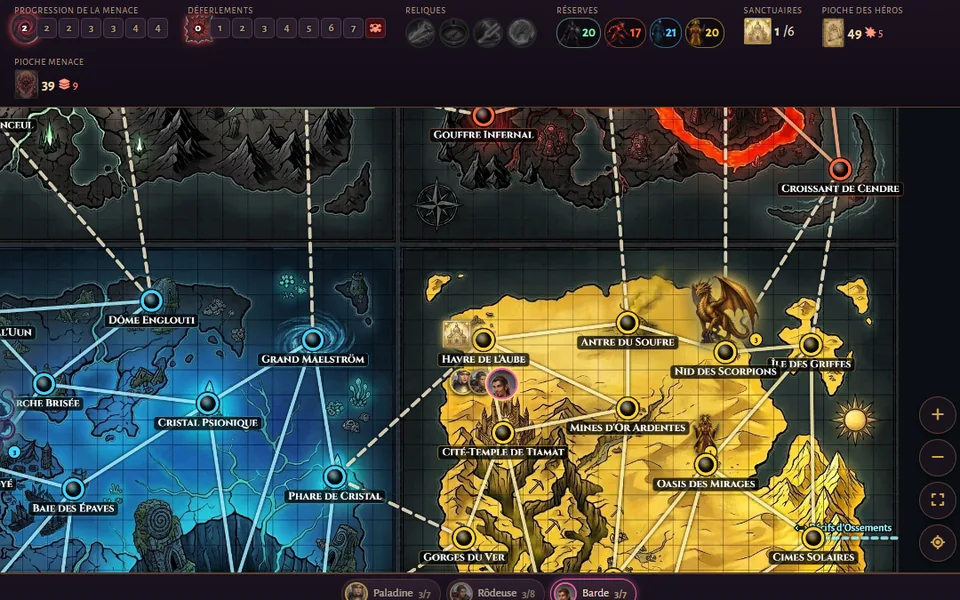
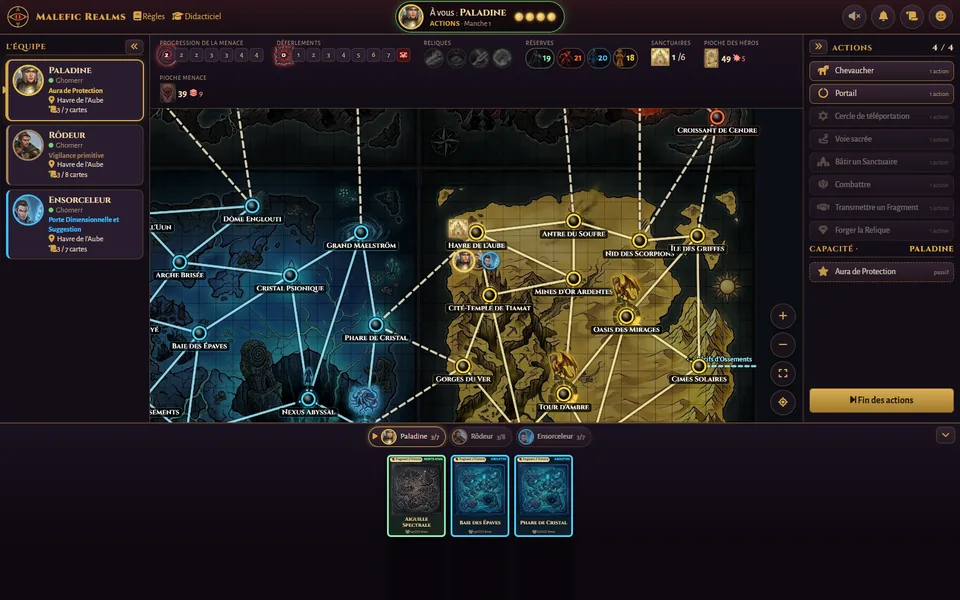
Passe Malefic Realms en terminé et en tête de liste, avec son poster et la nouvelle interface dans le carrousel

diff --git a/assets/js/projects.js b/assets/js/projects.js
@@ -9,6 +9,26 @@
 // downloads : (optionnel) boutons de téléchargement par OS ('windows' | 'macos' | 'linux')
 window.PROJECTS = [
   {
+    id: 'malefic-realms',
+    title: 'Malefic Realms',
+    kind: 'Jeu coopératif multijoueur · Web',
+    status: 'done',
+    images: [
+      { src: 'assets/img/gallery/malefic-realms.webp', alt: 'Poster du jeu : un dragon doré, des démons, un aboleth et un cultiste au-dessus de la carte des quatre continents' },
+      { src: 'assets/img/gallery/malefic-realms-board.webp', alt: 'Une partie en cours : l\'équipe, le plateau des continents reliés par des chemins lumineux, les actions et la main du héros' },
+      { src: 'assets/img/gallery/malefic-realms-heroes.webp', alt: 'Cartes de héros illustrées : paladine, divinatrice et érudit' },
+    ],
+    accent: '#9b5de5',
+    description:
+      'Toutes les règles de Pandemic dans un univers Donjons & Dragons : morts-vivants, démons, aboleths et ' +
+      'fanatiques de Tiamat envahissent quatre continents. De 2 à 4 héros coopèrent pour contenir la menace ' +
+      'et forger les quatre reliques qui les vaincront.',
+    tags: ['Node.js', 'Express', 'Socket.IO', 'De 2 à 4 héros'],
+    url: 'https://malefic-realms.onrender.com/',
+    linkLabel: 'Jouer',
+    render: true, // dépôt privé : pas de lien GitHub
+  },
+  {
     id: 'dungeon-escape',
     title: 'Dungeon Escape',
     kind: 'Jeu coopératif multijoueur · Web',
@@ -28,26 +48,6 @@ window.PROJECTS = [
     linkLabel: 'Jouer',
     render: true,
     repo: 'https://github.com/Ghomerr/dungeon-escape',
-  },
-  {
-    id: 'malefic-realms',
-    title: 'Malefic Realms',
-    kind: 'Jeu coopératif multijoueur · Web',
-    status: 'wip',
-    images: [
-      { src: 'assets/img/gallery/malefic-realms.webp', alt: 'Les quatre factions maléfiques : morts-vivants, démons, aboleths et fanatiques de Tiamat' },
-      { src: 'assets/img/gallery/malefic-realms-board.webp', alt: 'Le plateau de jeu : des continents reliés par des chemins lumineux' },
-      { src: 'assets/img/gallery/malefic-realms-heroes.webp', alt: 'Cartes de héros illustrées : paladine, divinatrice et érudit' },
-    ],
-    accent: '#9b5de5',
-    description:
-      'Toutes les règles de Pandemic dans un univers Donjons & Dragons : morts-vivants, démons, aboleths et ' +
-      'fanatiques de Tiamat envahissent quatre continents. De 2 à 4 héros coopèrent pour contenir la menace ' +
-      'et forger les quatre reliques qui les vaincront.',
-    tags: ['Node.js', 'Express', 'Socket.IO', 'De 2 à 4 héros'],
-    url: 'https://malefic-realms.onrender.com/',
-    linkLabel: 'Jouer',
-    render: true, // dépôt privé : pas de lien GitHub
   },
   {
     id: 'music-reader',

diff --git a/tools/build_images.py b/tools/build_images.py
@@ -40,6 +40,15 @@ def crop_ratio(im, cx=0.5, cy=0.5, ratio=W / H):
     return im.crop((0, y, w, y + nh))
 
 
+def extend_bottom(im, ratio=W / H):
+    """Passe une capture 16:9 en 16:10 sans rien rogner, en prolongeant sa dernière ligne de pixels."""
+    w, h = im.size
+    out = Image.new(im.mode, (w, int(w / ratio)))
+    out.paste(im, (0, 0))
+    out.paste(im.crop((0, h - 1, w, h)).resize((w, out.height - h)), (0, h))
+    return out
+
+
 def dungeon_escape():
     im = Image.open(os.path.join(DEV, 'dungeon-escape/static/assets/adventurers/dragon.png'))
     save(crop_ratio(im, cy=0.18), 'dungeon-escape.webp')  # cadré sur la tête du dragon
@@ -148,9 +157,9 @@ def gallery(shots):
     # Dungeon Escape : les aventuriers face au dragon, puis une carte Événement
     g(shot('de', '27-sprites-idle.png').crop((110, 20, 830, 470)), 'dungeon-escape-board.webp')
     g(shot('de', '43-event-card-desktop.png').crop((470, 244, 1130, 656)), 'dungeon-escape-event.webp')
-    # Malefic Realms : les quatre factions, le plateau, le choix des héros
-    g(crop_ratio(Image.open(os.path.join(DEV, 'malefic-realms/static/assets/cards/factions.jpg'))), 'malefic-realms.webp')
-    g(shot('malefic-realms', '10-game-desktop.png').crop((250, 60, 1330, 735)), 'malefic-realms-board.webp')
+    # Malefic Realms : le poster (cadré sur les factions), l'interface en partie, le choix des héros
+    g(crop_ratio(Image.open(os.path.join(DEV, 'malefic-realms/static/assets/cards/poster.jpg')), cy=0.64), 'malefic-realms.webp')
+    g(extend_bottom(shot('malefic-realms', '10-game-desktop.png')), 'malefic-realms-board.webp')
     g(shot('malefic-realms', '02-heroes-selected.png').crop((586, 198, 1354, 678)), 'malefic-realms-heroes.webp')
     # Lect'O'Note : lecture en cours (mesure surlignée), puis le bilan de l'analyse
     g(shot('music-reader', '4-playing.png'), 'music-reader-player.webp')
